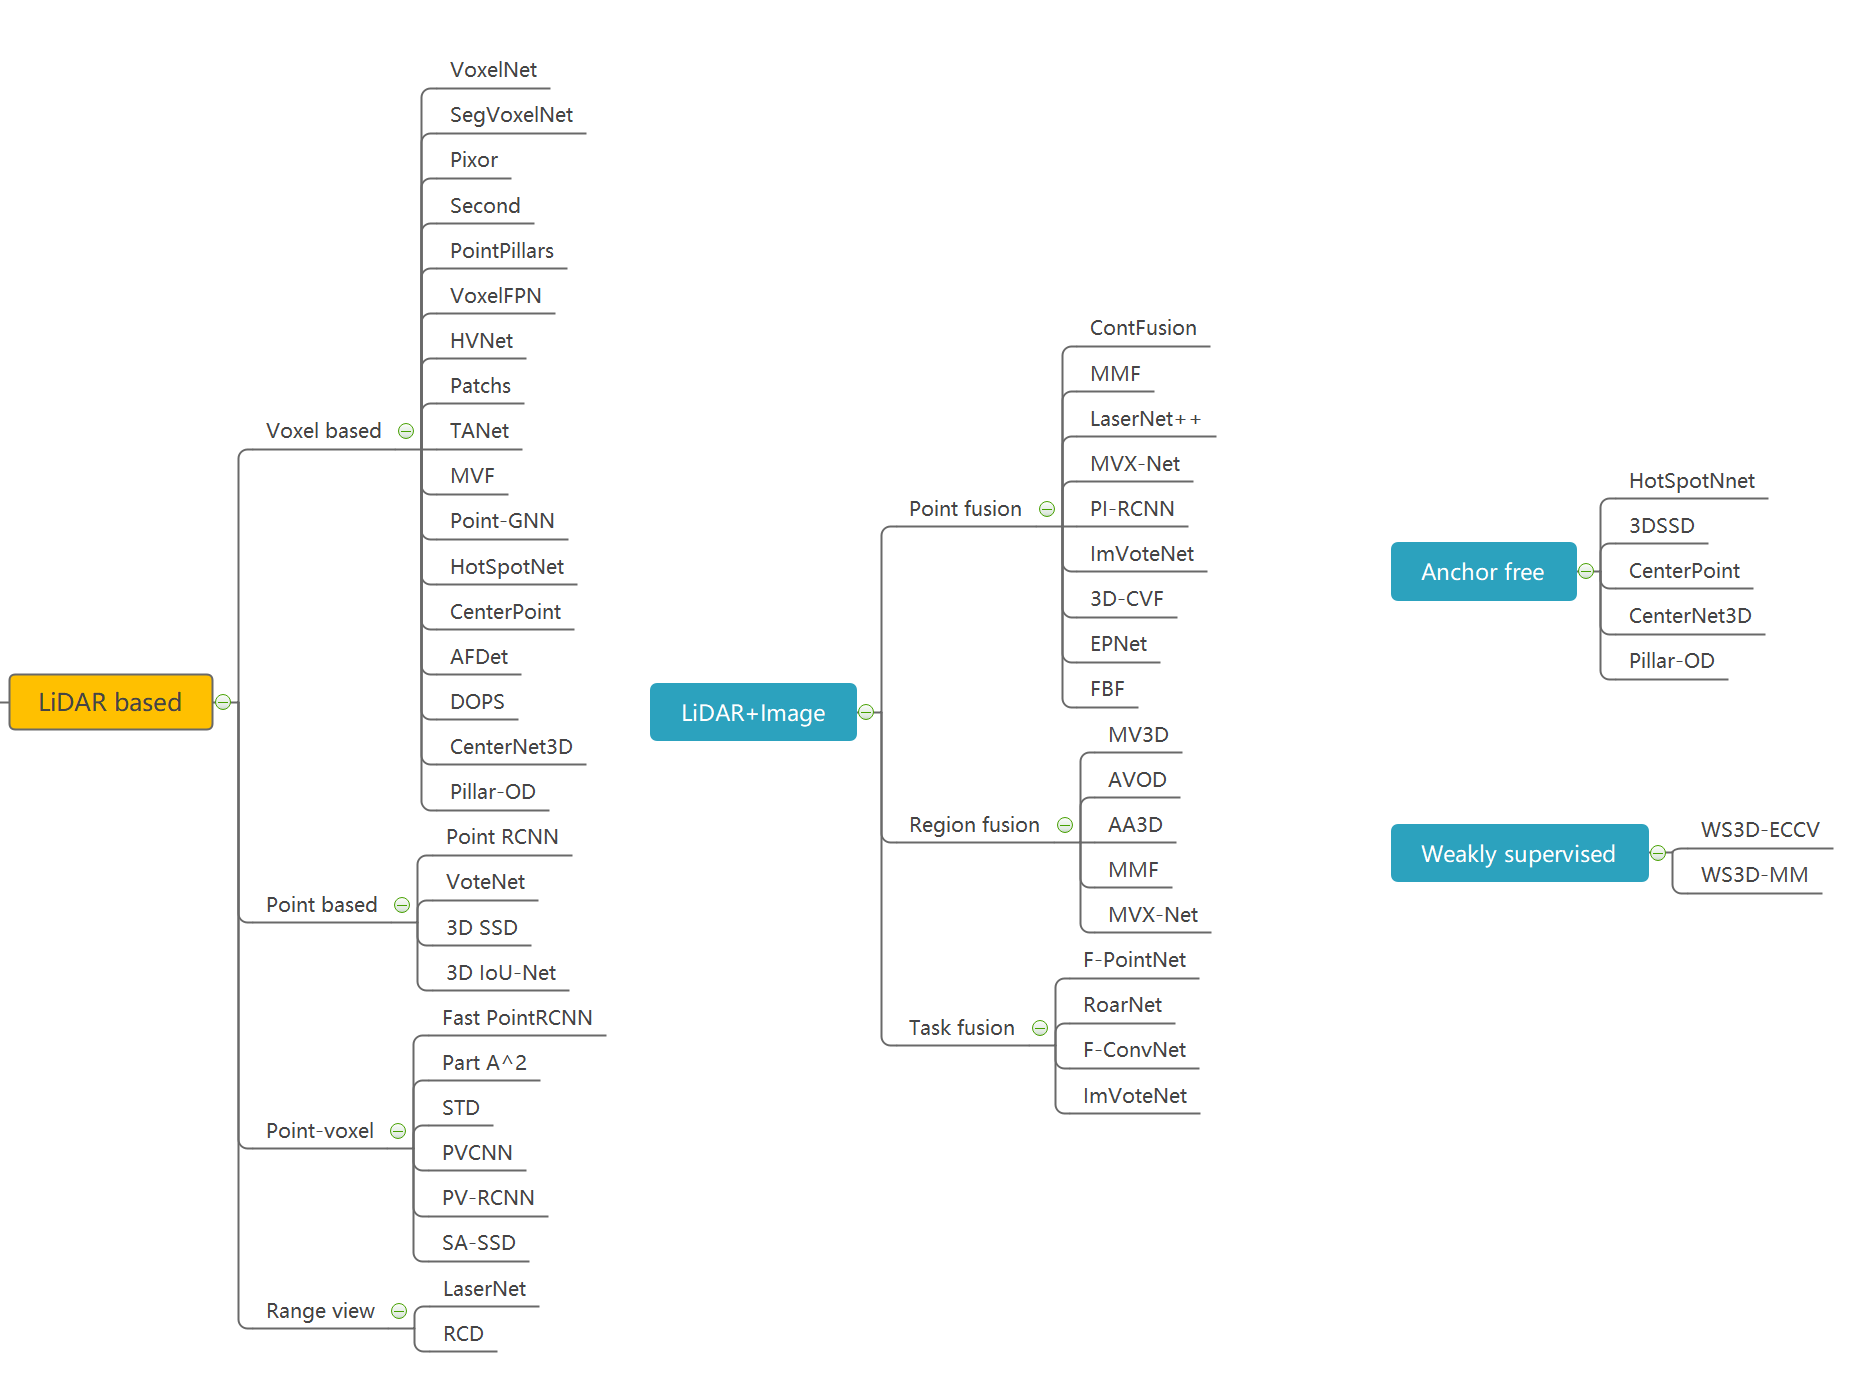
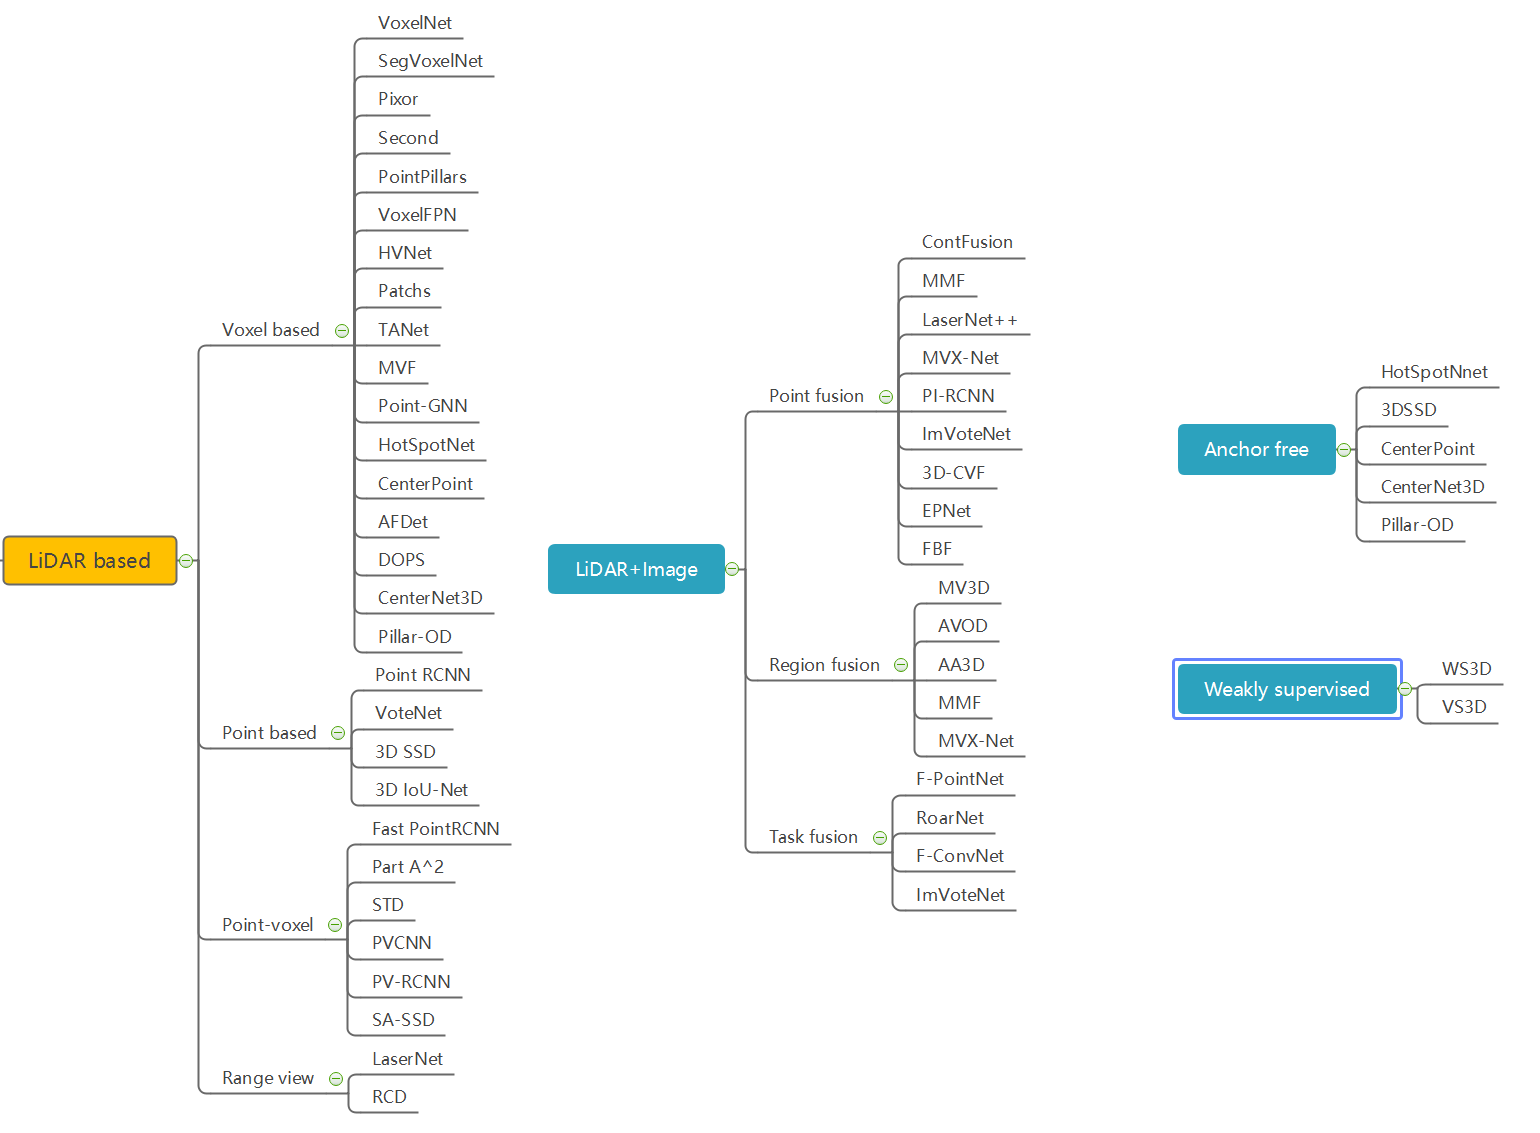
add code for WS3D

diff --git a/readme.md b/readme.md
@@ -55,7 +55,7 @@ This is a paper and code list of some awesome 3D detection methods. We mainly co
 | **3D CVF** (3D-CVF: Generating Joint Camera and LiDAR Features Using Cross-View Spatial Feature Fusion for 3D Object Detection) | ECCV2020           | I+L   |
 | **HotSpotNet** (Object as Hotspots: An Anchor-Free 3D Object Detection Approach via Firing of Hotspots) | ECCV2020           | L     |
 | **EPNet**: (EPNet: Enhancing Point Features with Image Semantics for 3D Object Detection) [code](https://github.com/happinesslz/EPNet) | ECCV2020           | I+L   |
-| **WS3D-ECCV** (Weakly Supervised 3D Object Detection from Lidar Point Cloud) | ECCV2020           | L     |
+| **WS3D** (Weakly Supervised 3D Object Detection from Lidar Point Cloud) [code](https://github.com/hlesmqh/WS3D) | ECCV2020           | L     |
 | **Pillar-OD** Pillar-based Object Detection for Autonomous Driving [code](https://github.com/WangYueFt/pillar-od) | ECCV2020           | L     |
 | **SSN** (SSN: Shape Signature Networks for Multi-class Object Detection from Point Clouds) | Arxiv2020          | L     |
 | **CenterPoint** (Center-based 3D Object Detection and Tracking) [code](https://github.com/tianweiy/CenterPoint) | Arxiv2020          | L     |
@@ -63,7 +63,7 @@ This is a paper and code list of some awesome 3D detection methods. We mainly co
 | **LGR-Net** (Local Grid Rendering Networks for 3D Object Detection in Point Clouds) | arxiv2020.07       | L     |
 | **CenterNet3D** (CenterNet3D:An Anchor free Object Detector for Autonomous Driving) | arxiv2020.07       | L     |
 | **RCD** (Range Conditioned Dilated Convolutions for Scale Invariant 3D Object Detection) | arxiv2020.06       | L     |
-| **WS3D-MM** (Weakly Supervised 3D Object Detection from Point Clouds) [code](https://github.com/Zengyi-Qin/Weakly-Supervised-3D-Object-Detection) | ACM MM2020         | I+L   |
+| **VS3D** (Weakly Supervised 3D Object Detection from Point Clouds) [code](https://github.com/Zengyi-Qin/Weakly-Supervised-3D-Object-Detection) | ACM MM2020         | I+L   |
 | To be continued...                                           |                    |       |
 
 ## Code list
